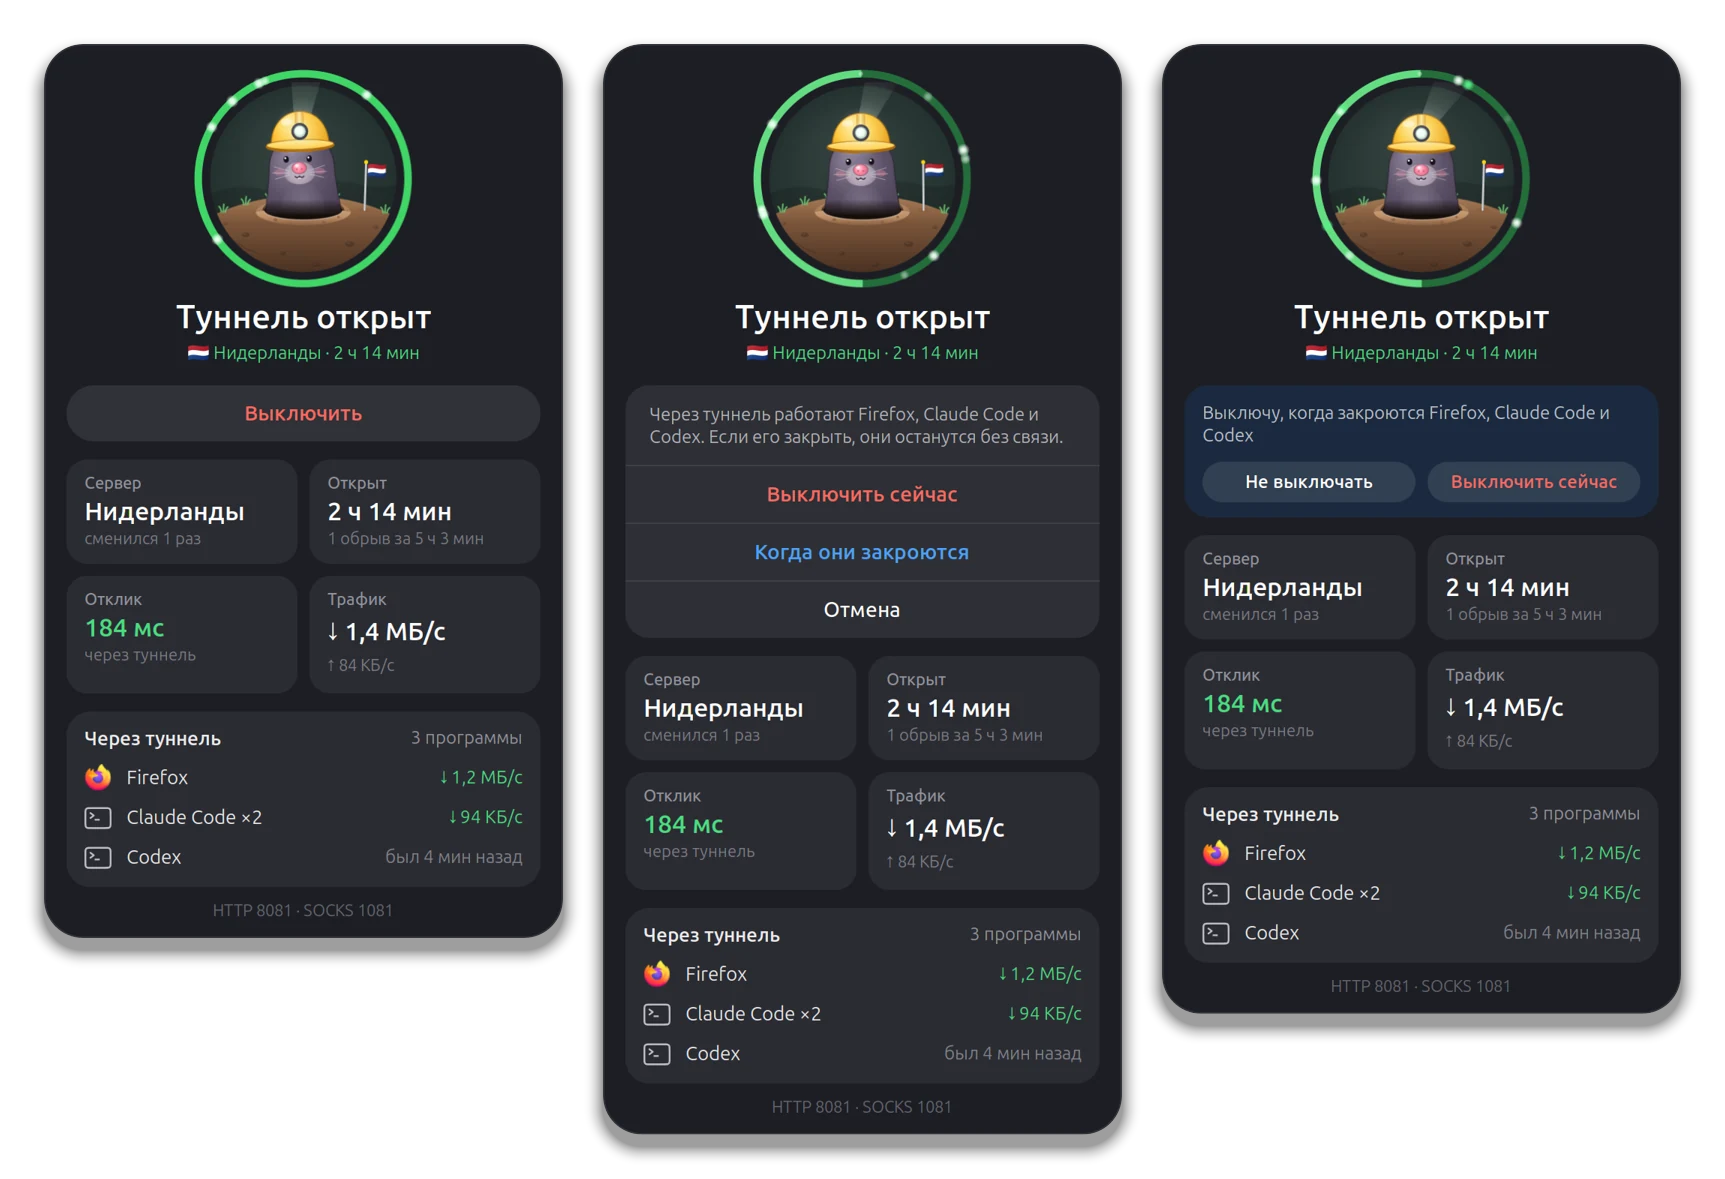
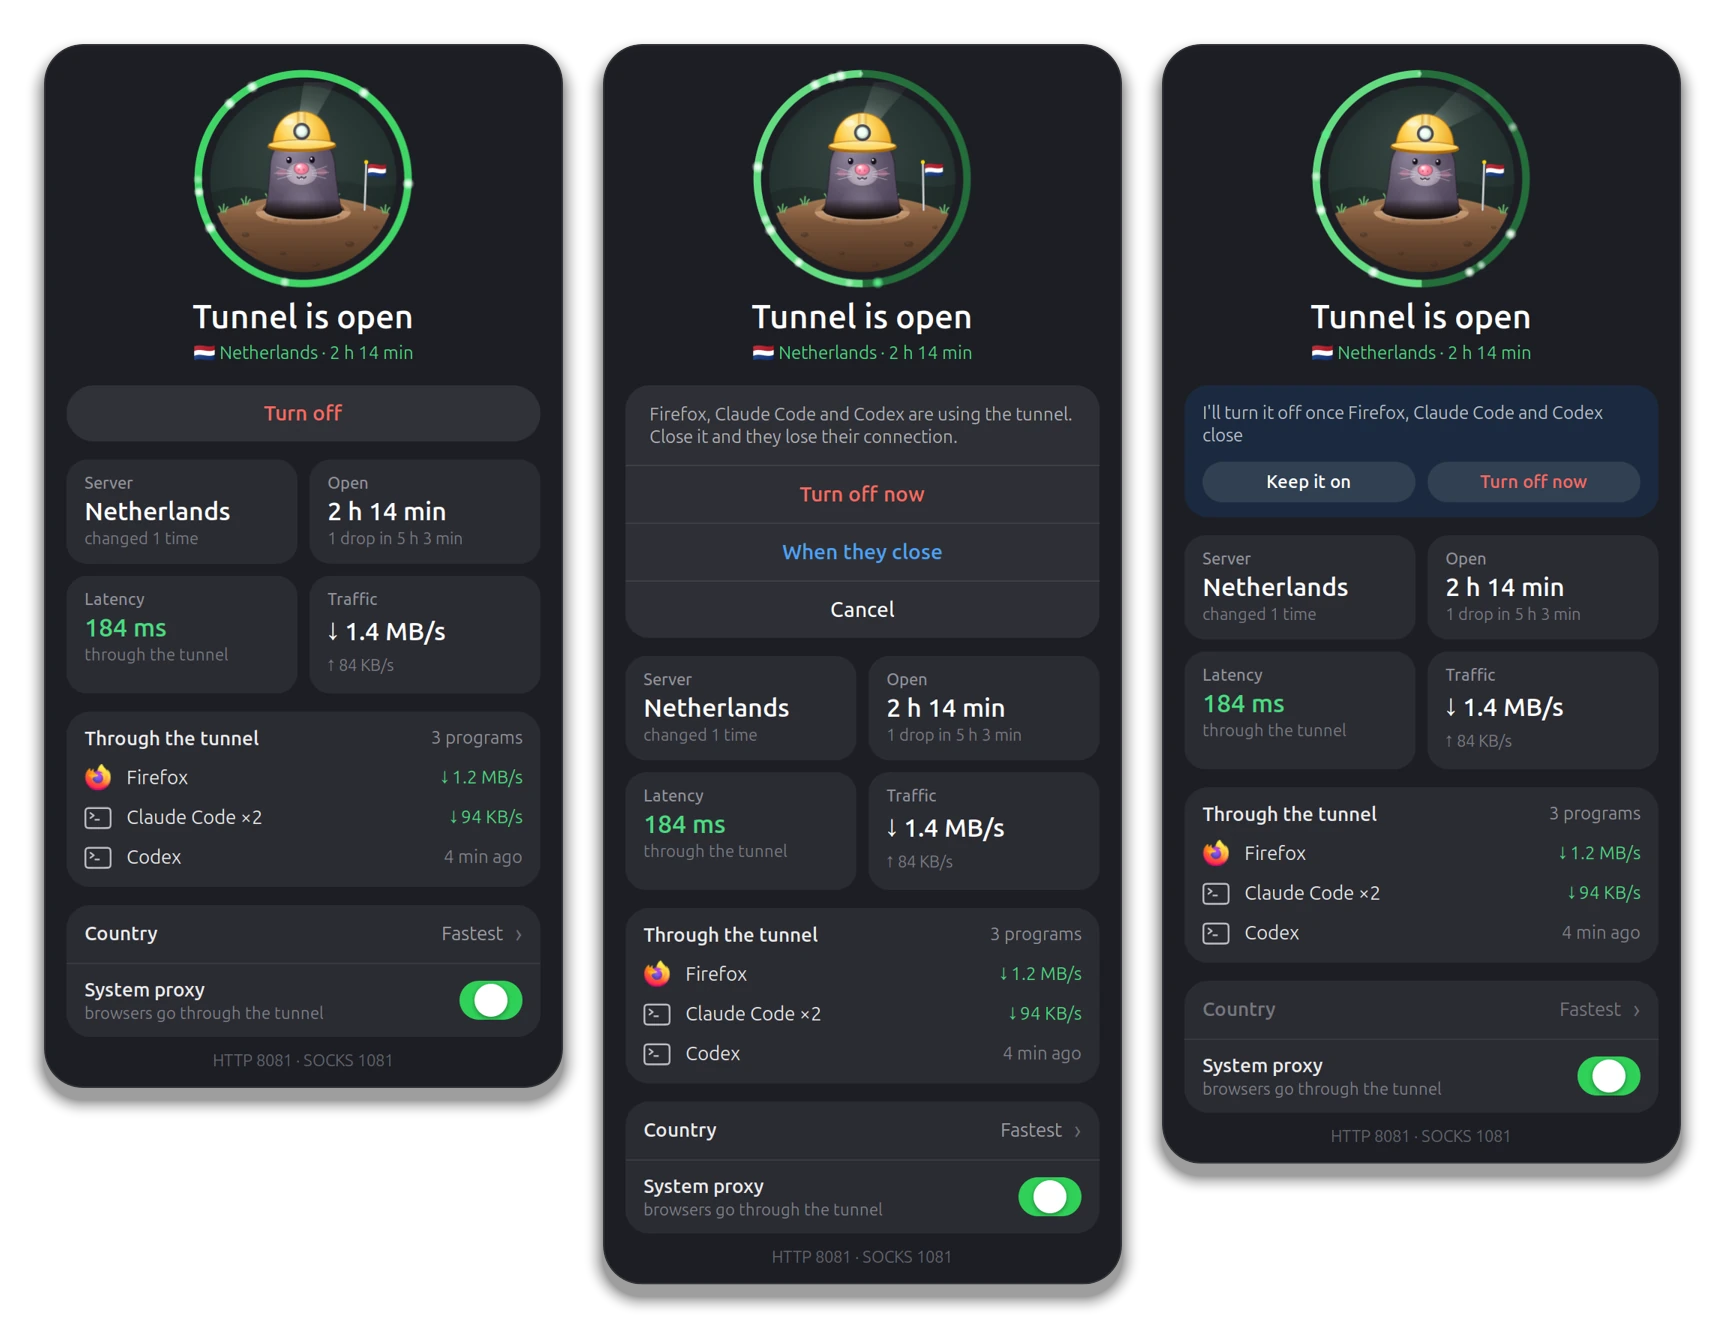
feat: Psiphon Tunnel card shows the installer, the country picker and GNOME 46-51
One ./install.sh, the country in the popup or psi region, the optional
system proxy, English and Russian, 55 tests and CI on the headless
Shells of GNOME 46, 48, 49, 50 and 51. The description is rewritten to
stay about as long as before. New English captures with the country
and proxy rows; the Russian note says the extension speaks both.

diff --git a/frontend/src/lib/project-locales.ts b/frontend/src/lib/project-locales.ts
@@ -10,5 +10,5 @@ export const projectDescriptionsRussian: Record<string, string> = {
   "Signal Processing Lab": "Python async, типизированный LLM/media parsing, SQLite-кампании, dry-run исполнение и риск-правила. Прошли 340 offline-тестов. Очищенная исследовательская версия; live providers и screener не проверялись.",
   "Headphones Battery for GNOME": "Расширение для GNOME Shell: точный заряд наушников с шагом 1% через Bluetooth LE, оставшееся время музыки по модели разряда, которая обучается на конкретных наушниках (рекурсивный байесовский МНК), и кот из Sims на Cairo с анимацией на пружинах. 36 gjs-тестов и публичный CI. Проверено на одних наушниках (JBL Tune 520BT); интерфейс на русском.",
   "Dota Time for GNOME": "Расширение для GNOME Shell, которое честно считает время в Dota 2: живые матчи через Game State Integration от Valve, история за 60 дней из OpenDota, сравнения времени в матчах со временем в матчах, пока не накопятся целые дни, и точный тест Фишера, прежде чем назвать разницу в винрейте настоящей. Рошан на Cairo с пружинной анимацией впадает в агр после четырёх часов. 40 gjs-тестов и публичный CI; живой рейтинговый матч совпал с OpenDota до секунды; интерфейс на русском.",
-  "Psiphon Tunnel for GNOME": "Расширение GNOME Shell для консольного клиента Psiphon. Запускает Psiphon в собственном systemd-scope, чтобы падение Shell не уронило туннель, и закрывает его аккуратно: SIGTERM, пять секунд на прощание, SIGKILL только если завис. Перед выключением находит программы, которые ещё ходят через туннель, по прокси-переменным и сокетам, и предлагает подождать, пока они закроются; ожидание переживает перезапуск Shell. Крот-шахтёр на Cairo с пружинной анимацией. 32 gjs-теста против фейкового Psiphon и публичный CI; весь цикл проверен на копии настоящего клиента в headless Shell; интерфейс на русском."
+  "Psiphon Tunnel for GNOME": "Расширение GNOME Shell и установщик в одну команду для консольного клиента Psiphon: install.sh скачивает Psiphon и конфиг, закреплённые по sha256, страна выбирается в попапе или командой psi region DE, а необязательный переключатель направляет системный прокси GNOME в туннель и потом возвращает как было. Psiphon живёт в собственном systemd-scope, чтобы падение Shell не уронило туннель; перед выключением расширение находит программы, которые ещё ходят через туннель, и предлагает подождать, пока они закроются. Крот-шахтёр на Cairo с пружинной анимацией; интерфейс на английском и русском. 55 gjs-тестов против фейкового Psiphon; CI гоняет весь цикл в headless Shell GNOME 46, 48, 49, 50 и 51."
 };

diff --git a/frontend/src/lib/project-media.ts b/frontend/src/lib/project-media.ts
@@ -65,20 +65,20 @@ export const projectMedia: Record<string, ProjectMedia> = {
   },
   "Psiphon Tunnel for GNOME": {
     dir: "gnome-psiphon-tunnel",
-    animation: { w: 416, h: 873 },
-    cards: { w: 1725, h: 1179 },
+    animation: { w: 416, h: 993 },
+    cards: { w: 1725, h: 1329 },
     panel: { w: 696, h: 132 },
     en: {
       animation: "Psiphon finds a server and the mole climbs out with its lamp on, then the stop button asks about the three programs using the tunnel and the popup waits for them",
-      cards: "Three moments: the tunnel open with Firefox, Claude Code and Codex going through it; the question before closing it; waiting for them to close",
+      cards: "Three moments: the tunnel open with Firefox, Claude Code and Codex going through it; the question before closing it; waiting for them to close. Below them, the country and the system proxy switch",
       panel: "The top bar helmet: off, connecting, open, waiting to close, crashed",
-      note: "Rendered in a headless GNOME Shell against a fake Psiphon; the programs are made up. UI in Russian.",
+      note: "Rendered in a headless GNOME Shell against a fake Psiphon; the programs are made up.",
     },
     ru: {
       animation: "Psiphon находит сервер, крот вылезает с зажжённой лампой, затем кнопка выключения спрашивает про три программы в туннеле, и попап ждёт их",
-      cards: "Три момента: туннель открыт, через него ходят Firefox, Claude Code и Codex; вопрос перед выключением; ожидание, пока они закроются",
+      cards: "Три момента: туннель открыт, через него ходят Firefox, Claude Code и Codex; вопрос перед выключением; ожидание, пока они закроются. Под ними выбор страны и переключатель системного прокси",
       panel: "Шлем в панели: выключен, подключается, открыт, ждёт, чтобы выключиться, упал",
-      note: "Снято в headless GNOME Shell с фейковым Psiphon; программы выдуманы.",
+      note: "Снято в headless GNOME Shell с фейковым Psiphon; программы выдуманы. Интерфейс на снимках английский, в расширении есть и русский.",
     },
   },
 };

diff --git a/frontend/src/lib/showcase-content.ts b/frontend/src/lib/showcase-content.ts
@@ -217,7 +217,7 @@ export const showcaseProjects: ProjectDto[] = [
   {
     "id": "gnome-psiphon-tunnel",
     "title": "Psiphon Tunnel for GNOME",
-    "description": "GNOME Shell extension for Psiphon's console client. It starts Psiphon in a systemd scope of its own, so a Shell crash cannot take the tunnel down, and closes it with SIGTERM, five seconds for its goodbye and SIGKILL only if it hangs. Before closing, it finds the programs still using the tunnel by their proxy variables and sockets and offers to wait until they exit; the wait survives a Shell restart. A Cairo mole in a miner's helmet on springs. 32 gjs tests against a fake Psiphon and public CI; the whole cycle checked against a copy of the real client in a headless Shell; UI in Russian.",
+    "description": "GNOME Shell extension and one-command installer for Psiphon's console client: install.sh fetches Psiphon and its config pinned by sha256, the country is picked in the popup or with psi region DE, and an optional switch points GNOME's proxy at the tunnel and puts it back as it was. Psiphon runs in a systemd scope of its own, so a Shell crash cannot take the tunnel down; before closing it, the extension finds the programs still using the tunnel and offers to wait until they exit. A Cairo mole in a miner's helmet on springs; English and Russian. 55 gjs tests against a fake Psiphon; CI runs the whole cycle in the headless Shells of GNOME 46, 48, 49, 50 and 51.",
     "url": null,
     "sourceUrl": "https://github.com/lilter96/gnome-psiphon-tunnel",
     "technologies": [
@@ -227,7 +227,8 @@ export const showcaseProjects: ProjectDto[] = [
       "Cairo",
       "systemd",
       "Linux processes",
-      "POSIX shell"
+      "POSIX shell",
+      "Docker"
     ],
     "sortOrder": 11,
     "status": "OpenSource",

diff --git a/backend/src/Infrastructure/Data/Seeding/DbSeeder.cs b/backend/src/Infrastructure/Data/Seeding/DbSeeder.cs
@@ -207,10 +207,10 @@ namespace Portfolio.Infrastructure.Data.Seeding
 
                 new Project(
                     title: "Psiphon Tunnel for GNOME",
-                    description: "GNOME Shell extension for Psiphon's console client. It starts Psiphon in a systemd scope of its own, so a Shell crash cannot take the tunnel down, and closes it with SIGTERM, five seconds for its goodbye and SIGKILL only if it hangs. Before closing, it finds the programs still using the tunnel by their proxy variables and sockets and offers to wait until they exit; the wait survives a Shell restart. A Cairo mole in a miner's helmet on springs. 32 gjs tests against a fake Psiphon and public CI; the whole cycle checked against a copy of the real client in a headless Shell; UI in Russian.",
+                    description: "GNOME Shell extension and one-command installer for Psiphon's console client: install.sh fetches Psiphon and its config pinned by sha256, the country is picked in the popup or with psi region DE, and an optional switch points GNOME's proxy at the tunnel and puts it back as it was. Psiphon runs in a systemd scope of its own, so a Shell crash cannot take the tunnel down; before closing it, the extension finds the programs still using the tunnel and offers to wait until they exit. A Cairo mole in a miner's helmet on springs; English and Russian. 55 gjs tests against a fake Psiphon; CI runs the whole cycle in the headless Shells of GNOME 46, 48, 49, 50 and 51.",
                     url: null,
                     sourceUrl: "https://github.com/lilter96/gnome-psiphon-tunnel",
-                    technologies: ["JavaScript", "GJS", "GNOME Shell", "Cairo", "systemd", "Linux processes", "POSIX shell"],
+                    technologies: ["JavaScript", "GJS", "GNOME Shell", "Cairo", "systemd", "Linux processes", "POSIX shell", "Docker"],
                     sortOrder: 11,
                     status: ProjectStatus.OpenSource,
                     role: "Personal engineering project",
